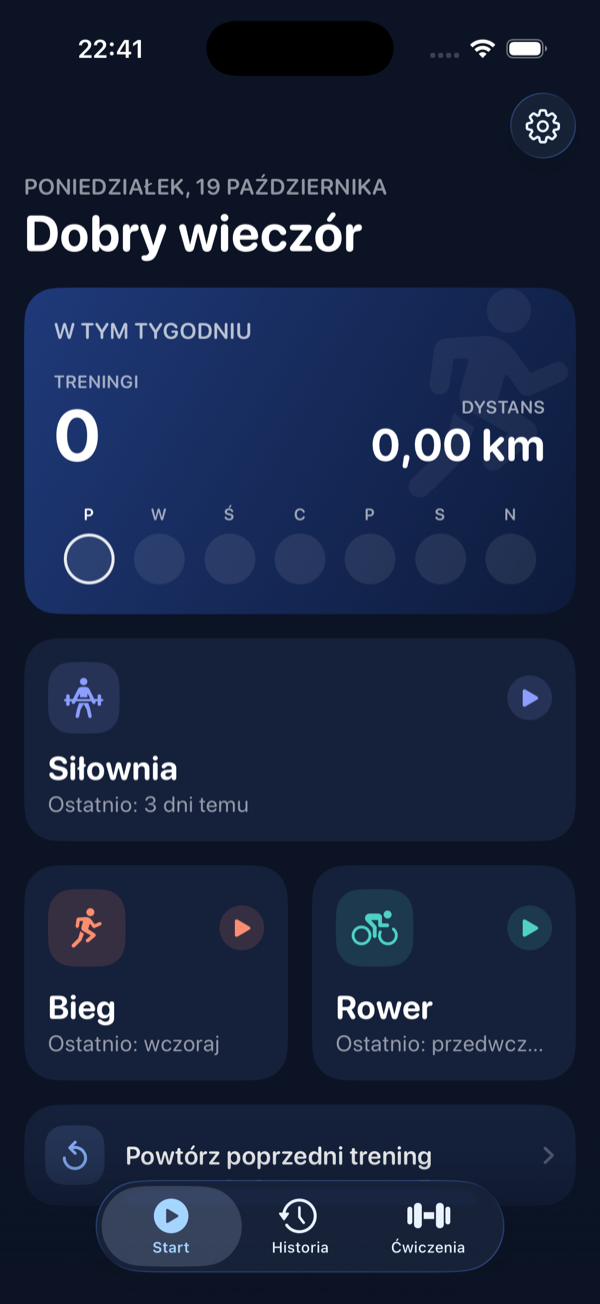
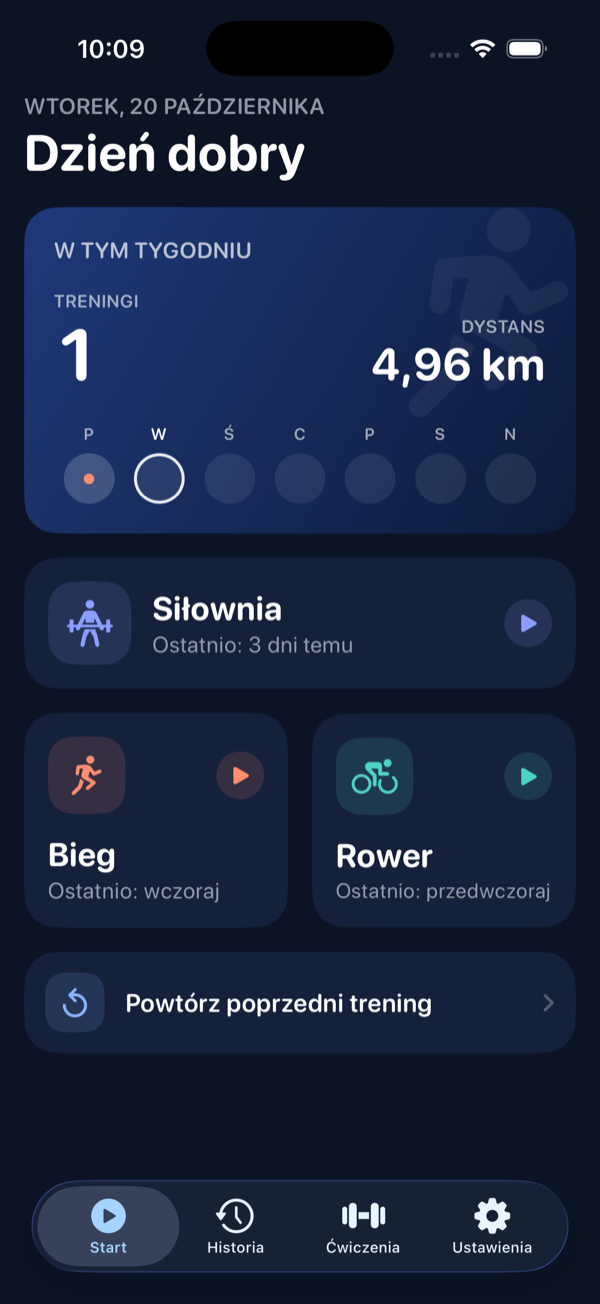
README: fresh screenshots and the new features

diff --git a/README.md b/README.md
@@ -3,10 +3,11 @@
 A personal iPhone app for logging gym workouts and GPS-tracked runs and rides. Everything stays on the device: no account, no backend, no sync. Available in English and Polish.
 
 <p>
-  <img src="docs/screenshots/start-pl-dark.png" width="200" alt="Start screen">
-  <img src="docs/screenshots/gym-pl-dark.png" width="200" alt="Gym workout">
-  <img src="docs/screenshots/prestart-pl-dark.png" width="200" alt="Run pre-start">
-  <img src="docs/screenshots/activityDetail-pl-dark.png" width="200" alt="Run detail with splits">
+  <img src="docs/screenshots/start-pl-dark.png" width="160" alt="Start screen">
+  <img src="docs/screenshots/history-pl-dark.png" width="160" alt="History overview with chart and personal bests">
+  <img src="docs/screenshots/routes-pl-dark.png" width="160" alt="Suggested 5 km running loops">
+  <img src="docs/screenshots/gym-pl-dark.png" width="160" alt="Gym workout">
+  <img src="docs/screenshots/activityDetail-pl-dark.png" width="160" alt="Run detail with splits">
 </p>
 
 ## Features
@@ -23,13 +24,19 @@ A personal iPhone app for logging gym workouts and GPS-tracked runs and rides. E
 - Filtering of noisy, stale and impossible GPS fixes, plus optional auto-pause.
 - Per-kilometer splits, approximate elevation gain (barometer when available), and a route map.
 - Crash-safe: progress is saved every 10 seconds, and an interrupted session can be resumed, saved or discarded.
+- Suggested routes: pick a distance and get three loops around you (Apple Maps directions), then follow the chosen one on the live map.
+
+**History**
+- Overview of the week, month or year with a chart, the change against the same point of the previous period, a weekly streak and personal bests.
+- Filter by gym, run or ride; months show their totals.
 
 **Everywhere**
 - Saves workouts and routes to Apple Health, if you allow it. The app works fully without it.
 - Export everything as JSON (plus a CSV of all gym sets) and import it back.
 - Import past runs and rides, with maps, from a Strava account export or MapMyRun (GPX, TCX and FIT files, also gzipped). Duplicates are skipped.
 - Full Polish translation with correct plural forms and a decimal comma ("5,2 km").
-- Dark mode, haptics and animations that respect Reduce Motion.
+- Light, dark or automatic appearance, and English or Polish regardless of the device language.
+- Haptics and animations that respect Reduce Motion.
 
 ## Requirements
 
